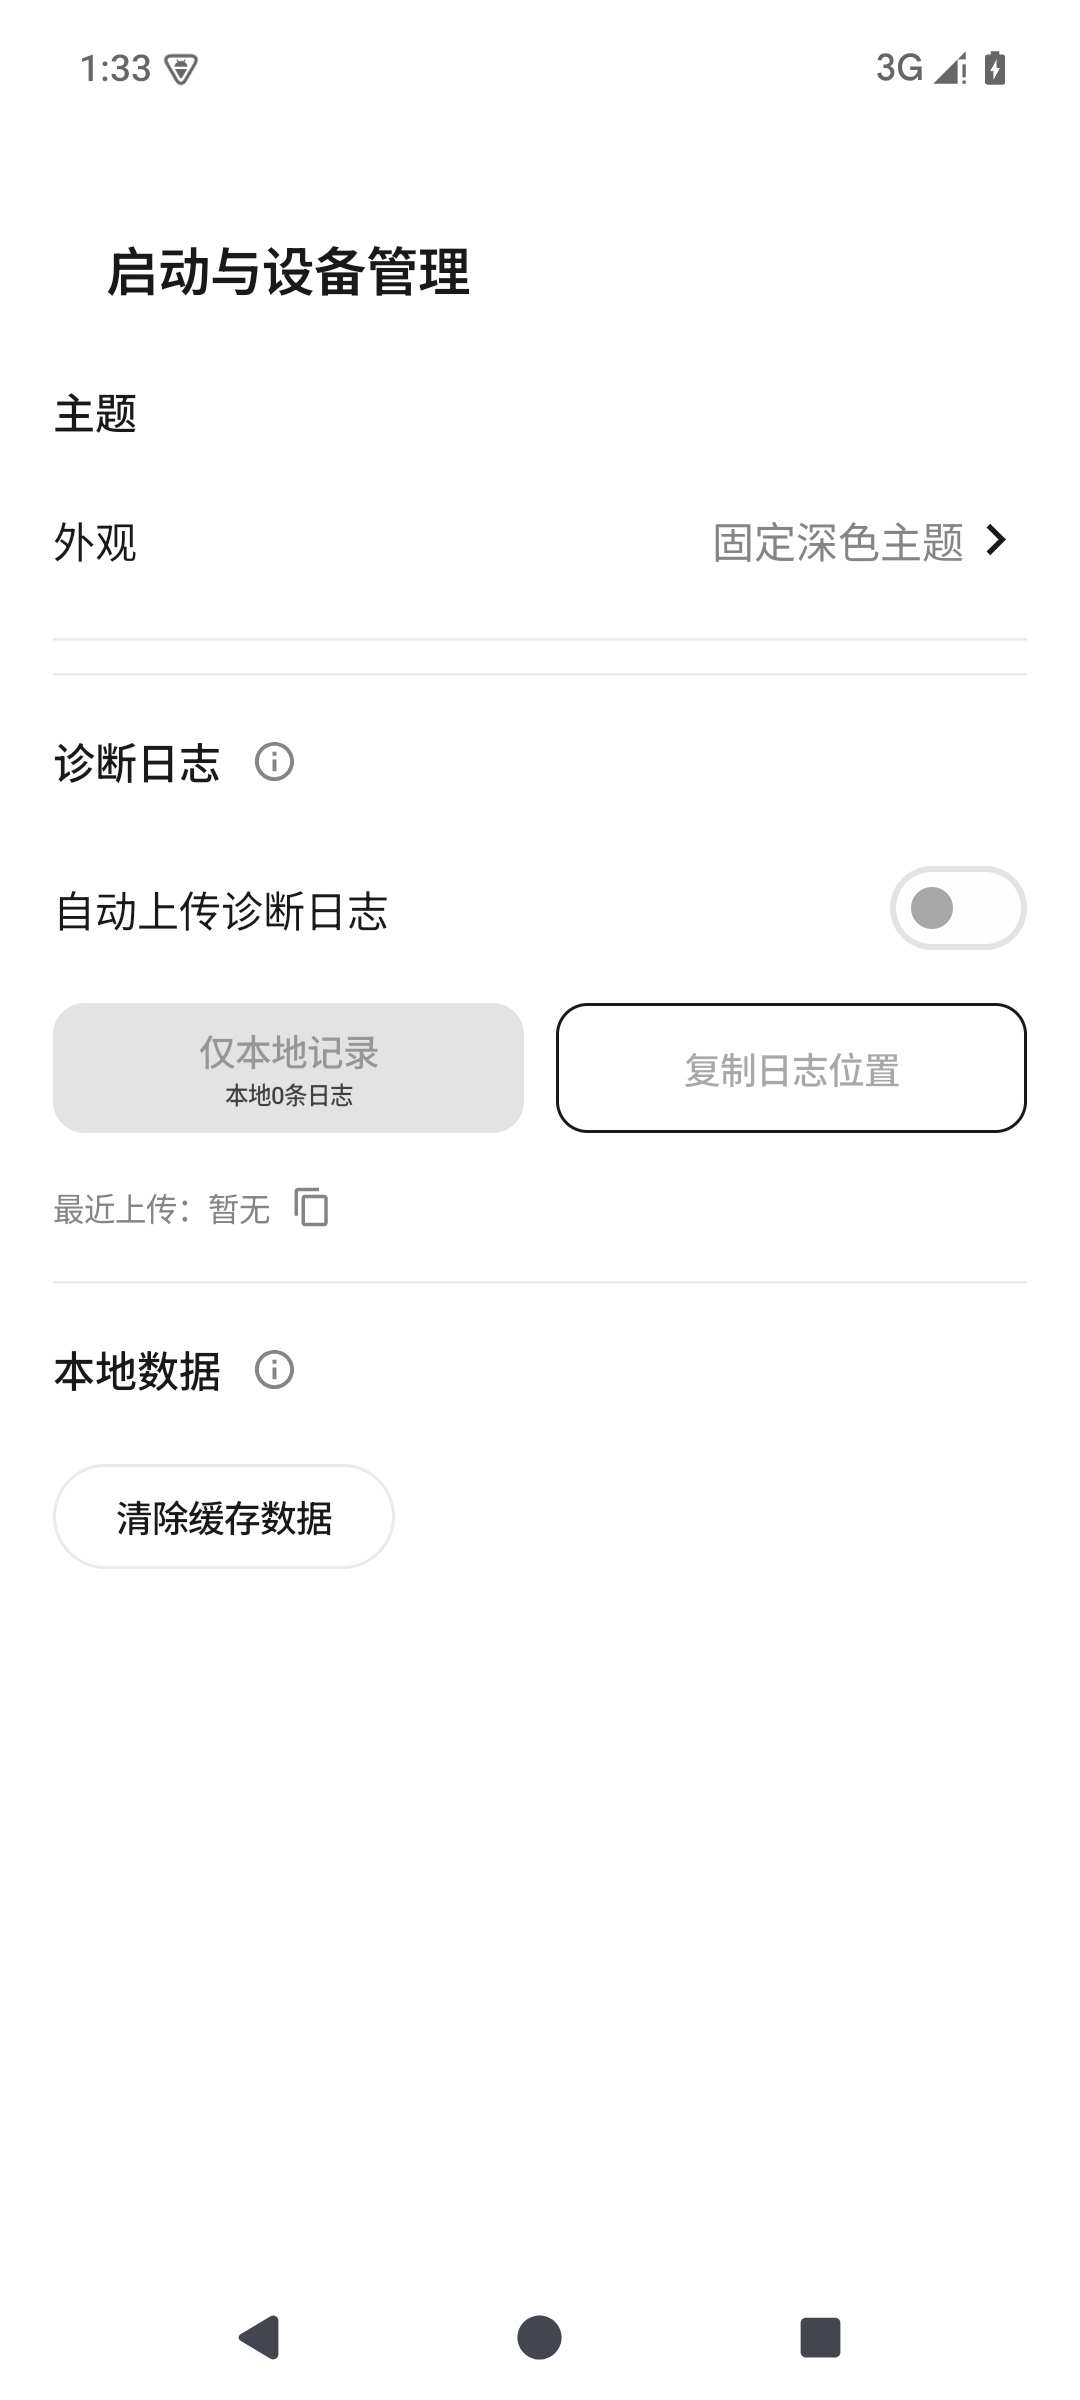
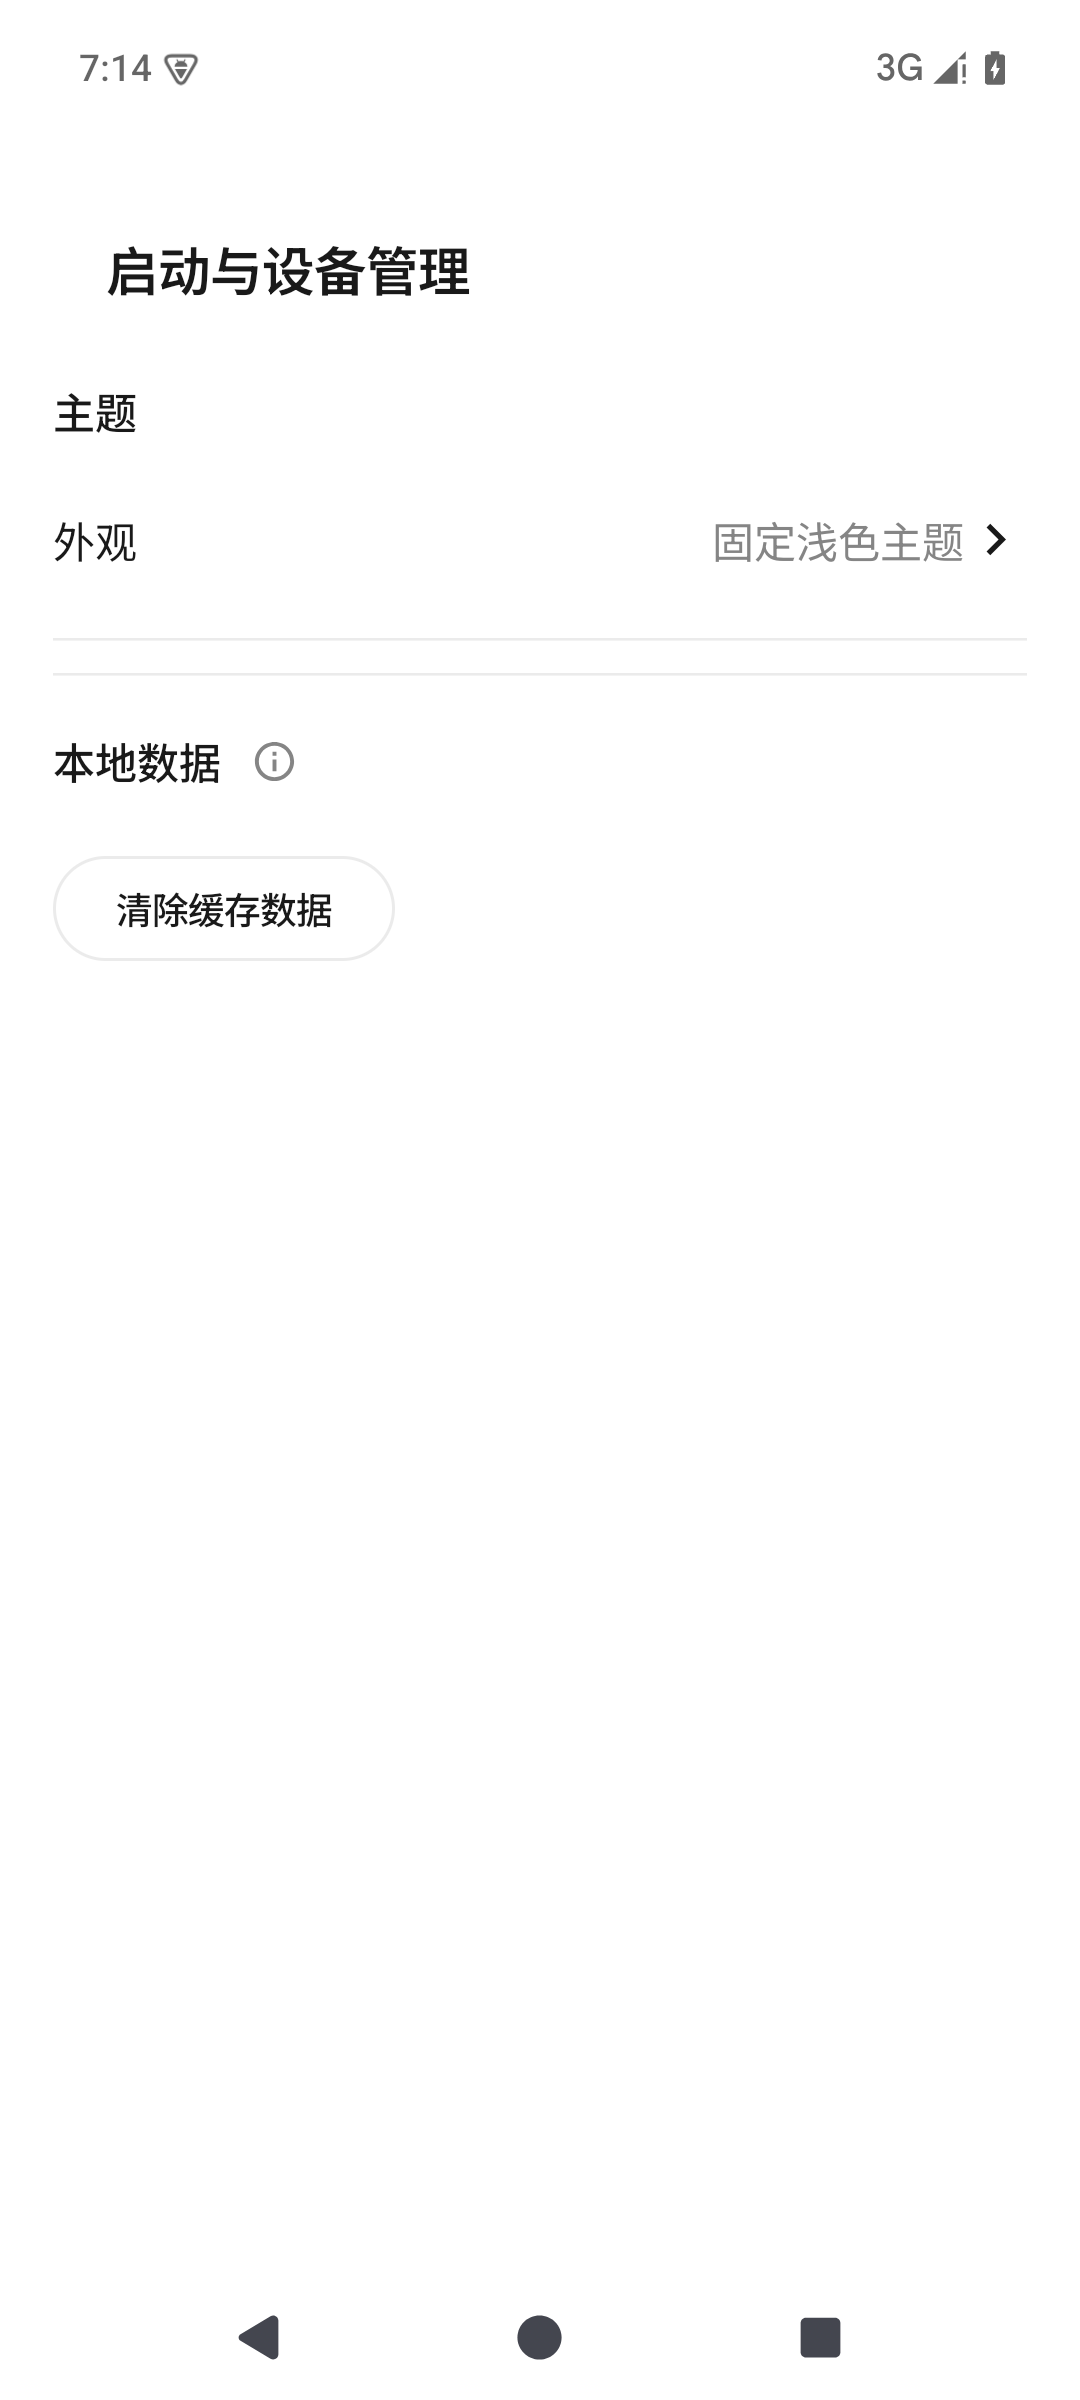
docs(ui): 更新原生设置与设备日志截图 [skip ci]

diff --git a/docs/screenshots/README.md b/docs/screenshots/README.md
@@ -14,4 +14,4 @@
 
 ## 截图更新边界
 
-`settings-light.png` 为旧布局，诊断日志已从全局管理页移动到单个设备设置页，因此该图已从首页撤下，待重新采集。设备设置截图也尚未展示新增日志区块。截图对应的采集身份保留在清单中；更新时必须运行当前组件并替换图片和哈希，不能仅改版本字段。
+当前采集已覆盖日志入口移至单个设备设置页后的布局。`device-diagnostics-dark.png` 展示设备日志区块，`settings-light.png` 展示全局主题与本地数据组件。全局图使用独立组件 fixture，未展示默认设备和会话通知区块，不能当作整个页面的完整清单。采集身份与每张图片哈希保留在 manifest.json；更新时须重新运行当前组件。
